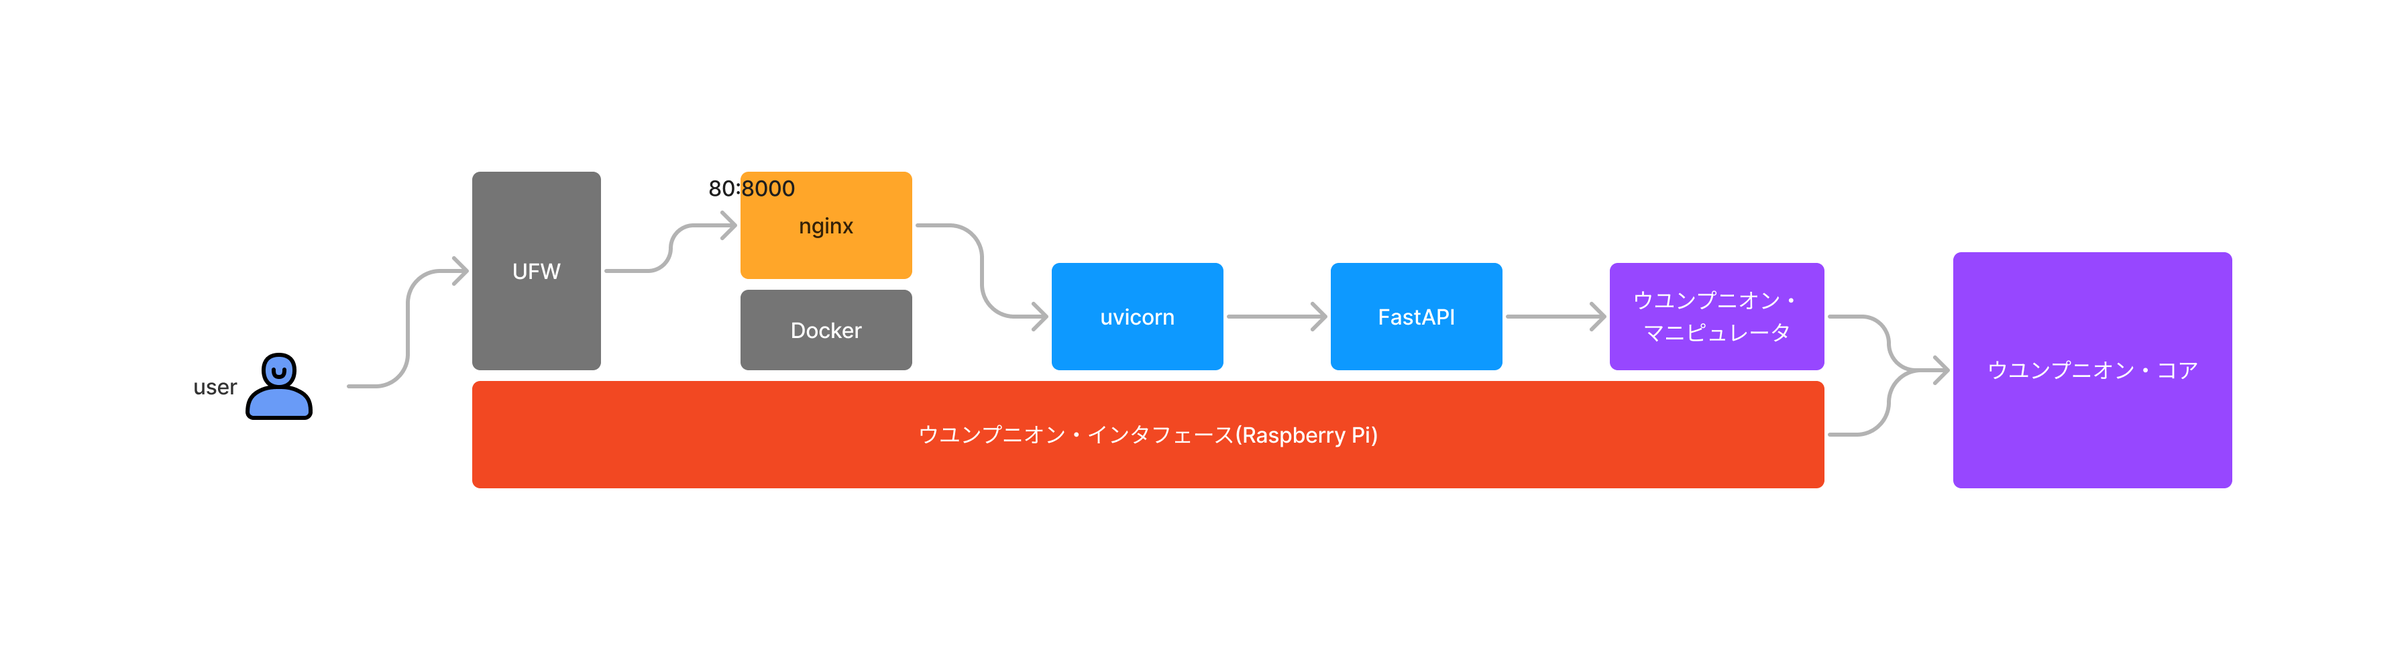
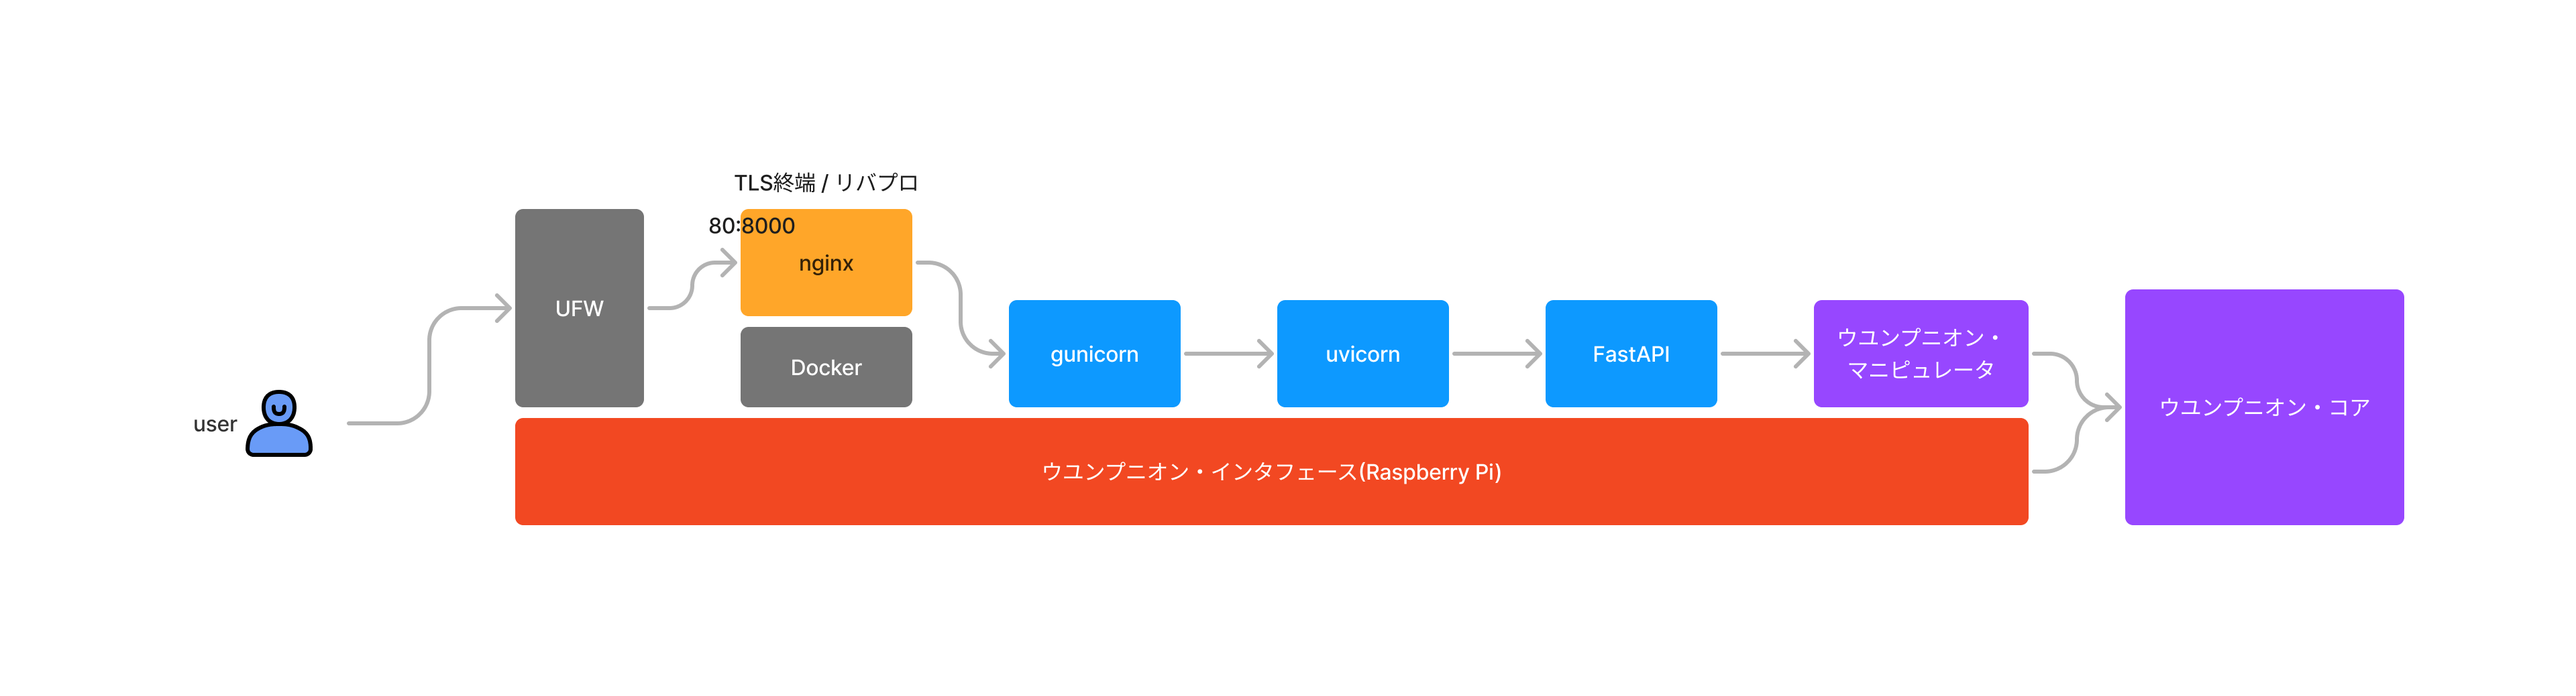
Modify README

Changed region(s): [[0.0625, 0.2439, 0.9375, 0.7622], [0.375, 0.6402, 0.5938, 0.7012]]

diff --git a/README.md b/README.md
@@ -28,10 +28,14 @@
 ├ ansible       Ansibleの設定
 ├ images
 ├ README.md
-├ server        Webサーバ、ASGI、API等
+├ server        TLS終端、リバプロ、ASGI、API等
 ├ manipulator   ウユンプニオン・コアを制御するためのコード
 └ vagrant       検証用途で使用するVagrantの設定
 ```
+
+## システム要件
+
+- pipenv
 
 ## 環境構築
 
@@ -40,6 +44,8 @@ $ cd server
 $ pipenv install
 $ pipenv shell
 $ uvicorn app:app --reload --port 8080
+$ open localhost:8080       # API
+$ open localhost:8080/docs  # OpenAPI
 ```
 
 <img src="images/omedetou.jpg" width="500px">
